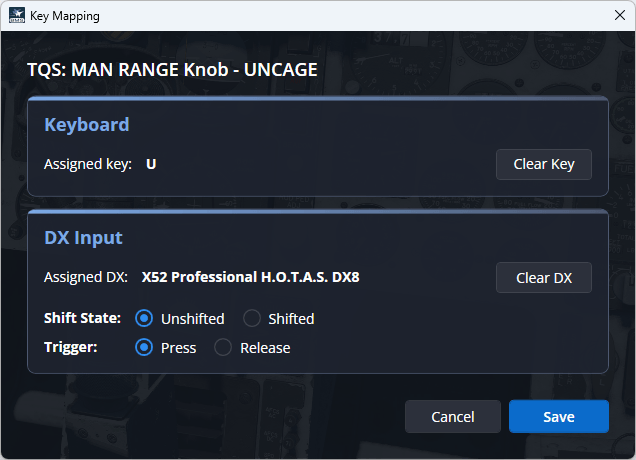
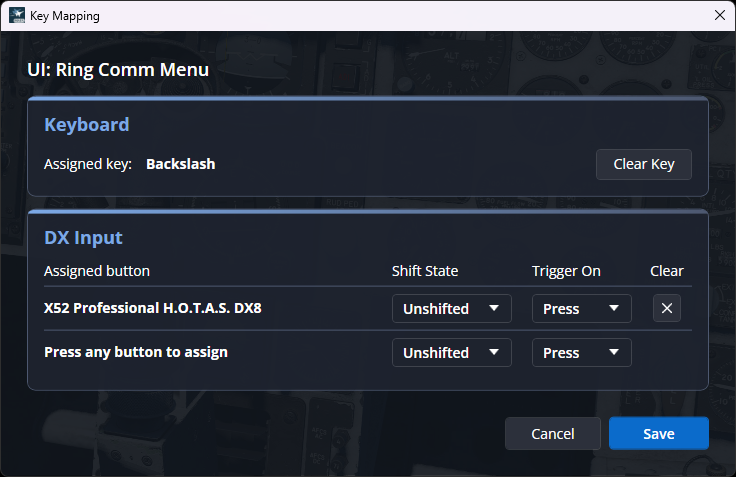
Update Readme and screenshots

diff --git a/README.md b/README.md
@@ -13,6 +13,7 @@ This Launcher is compatible with both Windows and Linux.
   - [Checking for Updates](#checking-updates)
   - [First Run on a New Install](#fresh-install)
   - [Upgrading From an Older Version](#v2-import)
+  - [After BMS Updates](#after-bms-updates)
 - [Assigning Controls](#assigning-controls)
   - [Mapping a Key or Button](#mapping-key-button)
   - [Mapping an Axis](#mapping-axis)
@@ -56,7 +57,7 @@ Launcher v3 uses a new control file system that is not compatible with older ver
 After updating from an older version of Falcon BMS, Launcher v3 will check for existing Launcher v2 KEY and XML control files. If found, it will automatically perform a one-time conversion into the new Launcher v3 format.
 
 A backup of your older Launcher v2 files will automatically be created in:
-\User\Config\Launcher-Backups
+`User\Config\Launcher-Backups`.
 
 When the conversion is complete, the Launcher will start normally and allow you to continue setting up your controls.
 
@@ -66,6 +67,18 @@ If any mappings could not be converted, a message will show which controls could
 
 Note: Manually modifying the KEY or XML files will cause the Launcher to become out-of-sync with changes you've made.
 
+### After BMS Updates
+
+Following future Falcon BMS updates, this new Launcher checks your existing keyboard and device assignments against the controls available in the updated BMS version.
+
+If any controls are no longer supported, the Launcher will:
+
+- Create a backup of your existing control files
+- Remove obsolete assignments
+- Display a message identifying which assignments were removed
+
+Backups are saved in `User\Config\Launcher-Backups`.
+
 <a id="assigning-controls"></a>
 ## Assigning Controls
 
@@ -73,13 +86,12 @@ The Launcher comes with a few pre-configured setups for popular devices, but you
 
 ![Controls tab](.github/images/controls-tab.png)
 
-The Controls tab is divided into four panels that work together to help you set up and customize your controls.
-- Top panel: Aircraft profile selection, text filtering, import/export
-- Category panel: Filters the Mapping table to only show controls within the selected category
-- Last input: Displays the last key press, button press, POV hat direction, or axis movement
-- Mapping panel: Used to view and modify your keyboard and device controls
+The Controls tab is divided into three panels:
+- Top Panel: Select aircraft profiles, import/export control settings, and view the last detected input.
+- Filtering Panel: Filter the Mapping table by text, category, or both to quickly find specific controls. Use the Clear button to reset your filters.
+- Mapping Panel: View and modify keyboard, DirectX button, and POV assignments.
 
-Clicking any key or button will highlight mapped input in the table
+Pressing a keyboard key or device button will highlight its assigned control in the Mapping table.
 
 <a id="mapping-key-button"></a>
 ### Mapping a Key or Button
@@ -92,10 +104,9 @@ When the popup window appears, simply press a key or button to assign it to this
 
 If the key or button is already used elsewhere, a warning message will display. You can still reassign the input by clicking the 'Save' button.
 
-For DX inputs, you can assign a button to a shifted state or have the assigned control activate when the button is released rather than pressed.
-
-- First select "SHIFTED" and/or "RELEASE", then press a device's button
-- "SHIFTED" and/or "RELEASE" will display in the Assigned DX line to let you know when either option is set
+For DX inputs, each assigned button is displayed on its own row, along with its Shift and Trigger settings.
+- You can assign the Shift or Trigger state before or after pressing a button
+- Click the "X" button on a row to unassign only that input
 
 <a id="mapping-axis"></a>
 ### Mapping an Axis
@@ -259,6 +270,8 @@ When the Launcher loads, keyboard and device bindings are resolved independently
 13. If no stock XML exists for that device, build an empty device profile
 14. Retain saved profiles for devices that are currently offline
 15. Build the complete in-memory binding model
+16. Validate existing keyboard and device assignments against the current FULL key files
+17. If obsolete assignments are found, back up the control files, remove the obsolete assignments, and notify the user
 
 
 ### Save and Launch Flow
